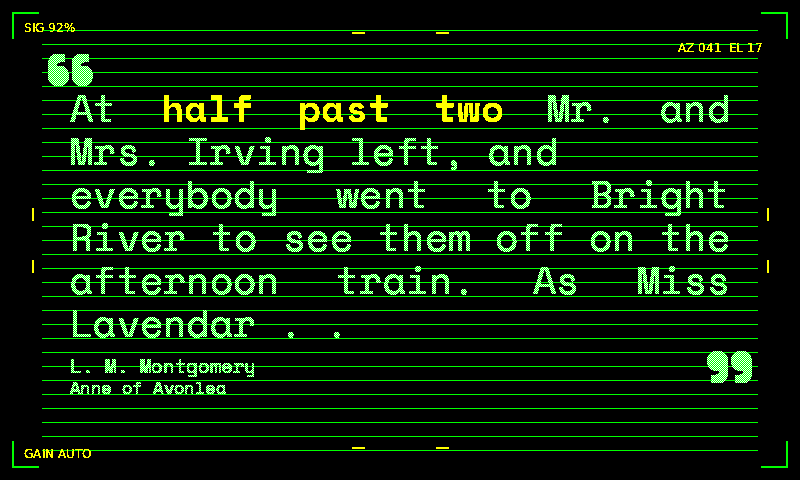
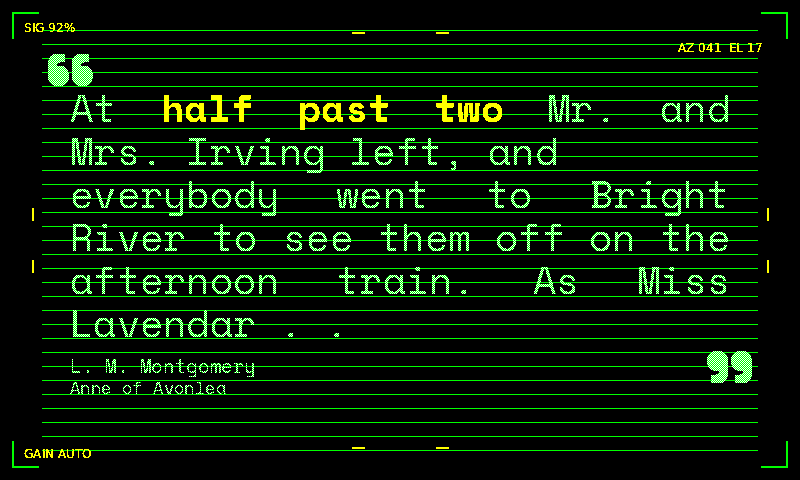
Nightvision: threshold the dither mask so glyph silhouettes don't halo
Pillow's TTF mask is antialiased, so the prior ``if mx[x, y]`` test
wrote a full saturated dark/light pixel for every nonzero coverage —
including 1..127 AA fringe pixels around each glyph. The plain
``draw.text`` + palette-snap path that ``draw_text_dithered`` replaces
silently snapped those partial-coverage fringes back to the bg colour
(green/black AA edges round to black), so the new path was visibly
thickening small attribution / debug text with a green/white halo
that never rounded back to bg in palette space. Thresholding the
mask at ≥128 reproduces the prior silhouette in the dithered path.

Caught by Codex code-review on PR #109.

https://claude.ai/code/session_01S3A4jceS38wvSpGAfDKdC4

diff --git a/render_quote.py b/render_quote.py
@@ -1543,6 +1543,20 @@ def draw_text_dithered(image: Image.Image, xy, text, font, dark, light, pattern_
     ``draw_faux_gray_text`` so the two paths interleave cleanly when a
     theme uses both (e.g. dithered body text plus dithered ornament
     quote marks).
+
+    The mask is thresholded at ≥128 rather than treated as binary on every
+    nonzero coverage. Pillow renders TTF glyphs with an antialiased mask
+    whose edge pixels carry partial coverage (1..254); writing a fully
+    saturated dark/light to every nonzero pixel grows a 1px halo around
+    each glyph that, after ``snap_image_to_palette``, stays as a hot
+    fringe (especially the ``light`` half of the dither, which sits far
+    from the page bg in palette space and never rounds back to it). The
+    plain ``draw.text`` + palette-snap path that this helper replaces for
+    the nightvision body / attribution / debug strip silently snapped
+    those partial-coverage fringes back to the bg colour, so the prior
+    glyph silhouette was effectively binary at ~50% coverage; the ≥128
+    threshold reproduces that silhouette here so the dithered path
+    doesn't visibly thicken small text.
     """
     draw = ImageDraw.Draw(image)
     bbox = draw.textbbox(xy, text, font=font)
@@ -1565,7 +1579,7 @@ def draw_text_dithered(image: Image.Image, xy, text, font, dark, light, pattern_
     for y in range(region_h):
         ay = y + y0
         for x in range(region_w):
-            if mx[x, y]:
+            if mx[x, y] >= 128:
                 ax = x + x0
                 px[ax, ay] = dark if ((ax + ox) + (ay + oy)) % 2 == 0 else light
 
